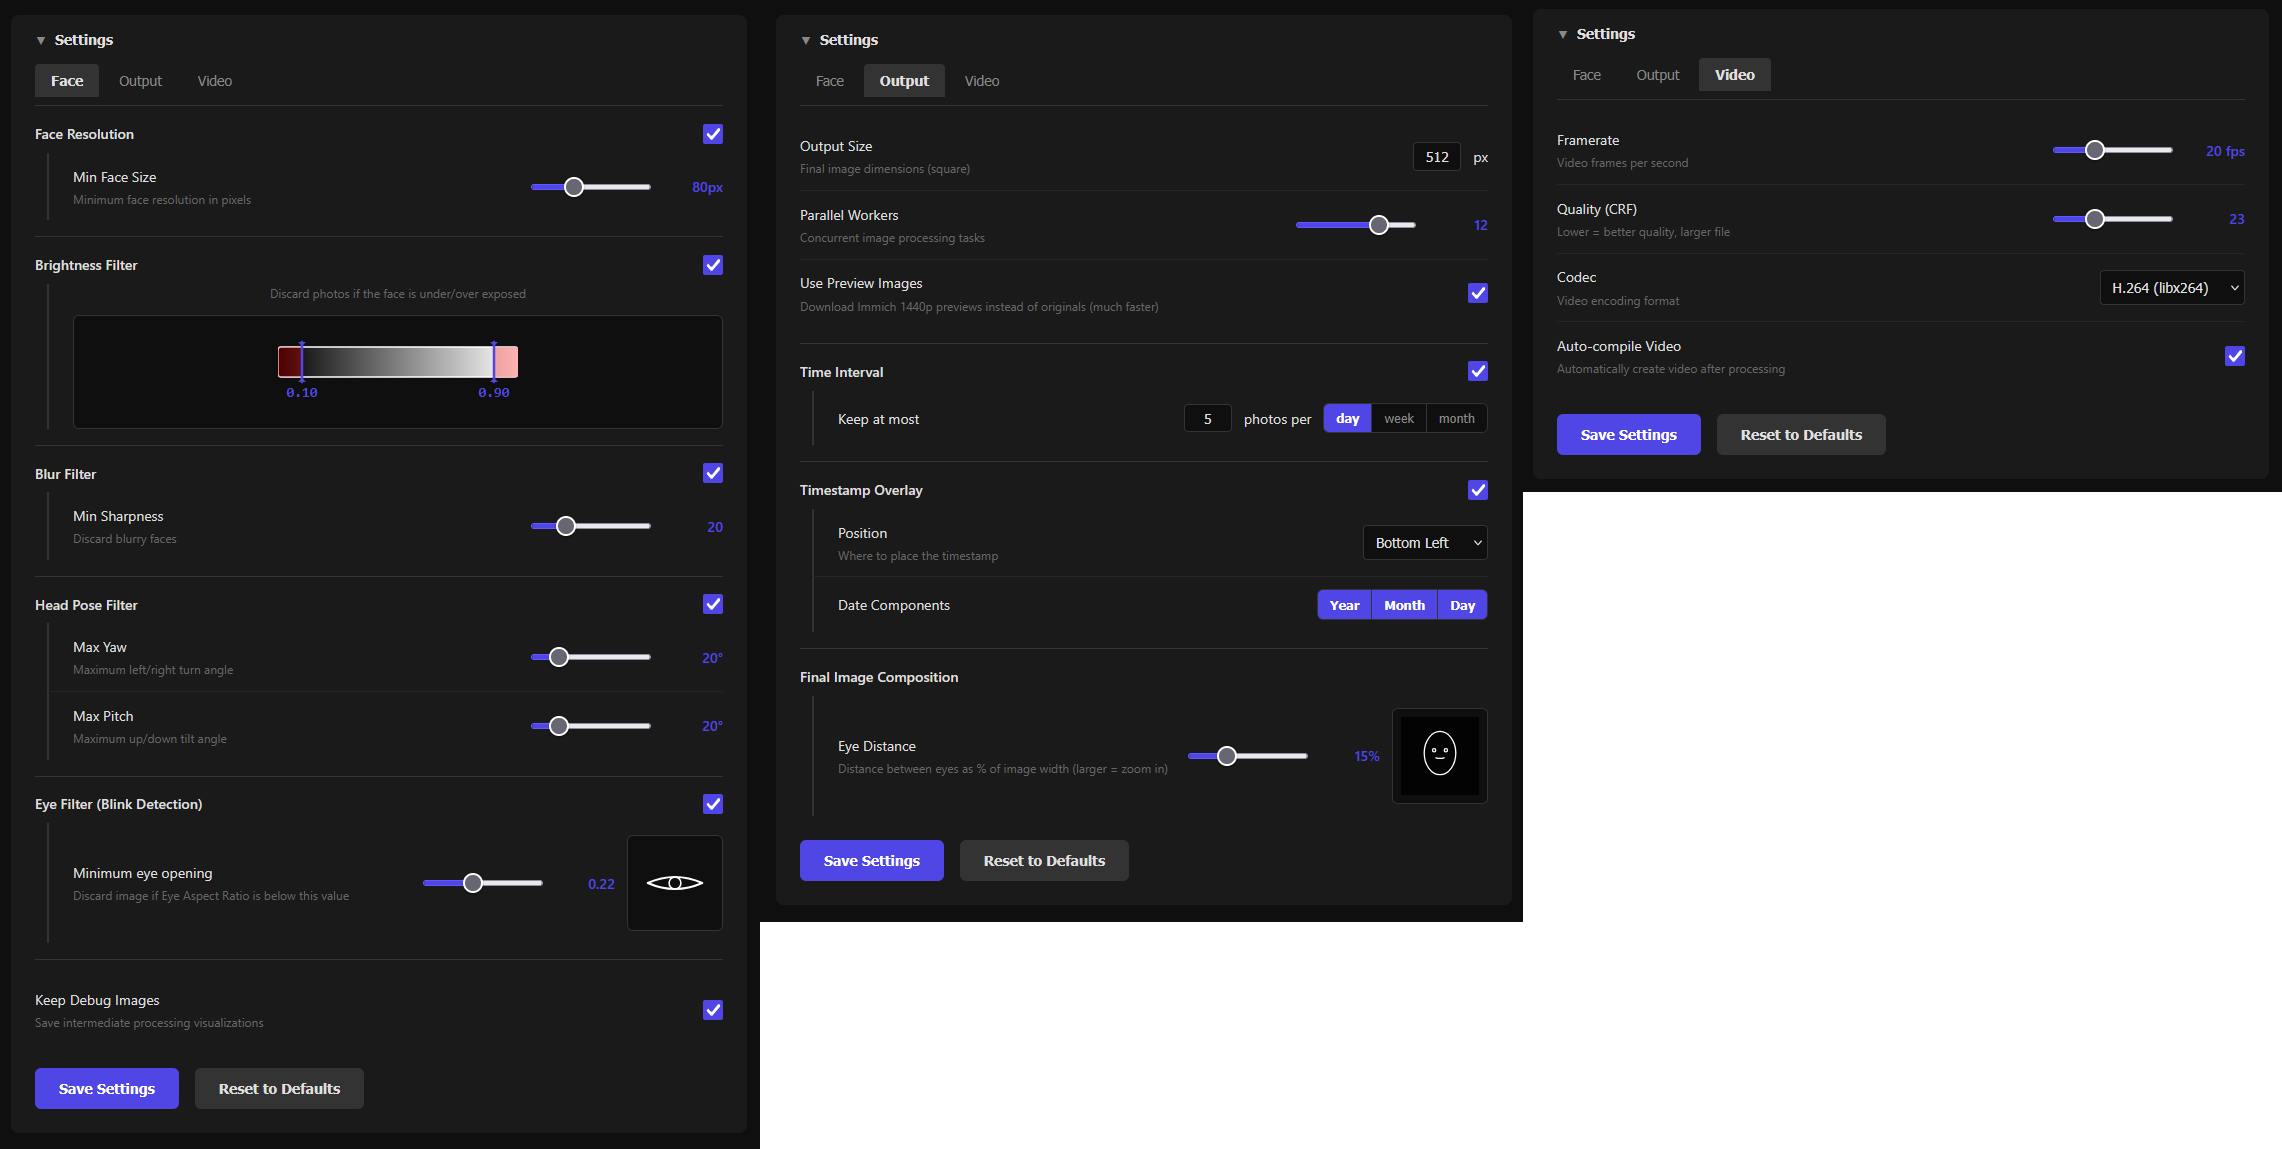
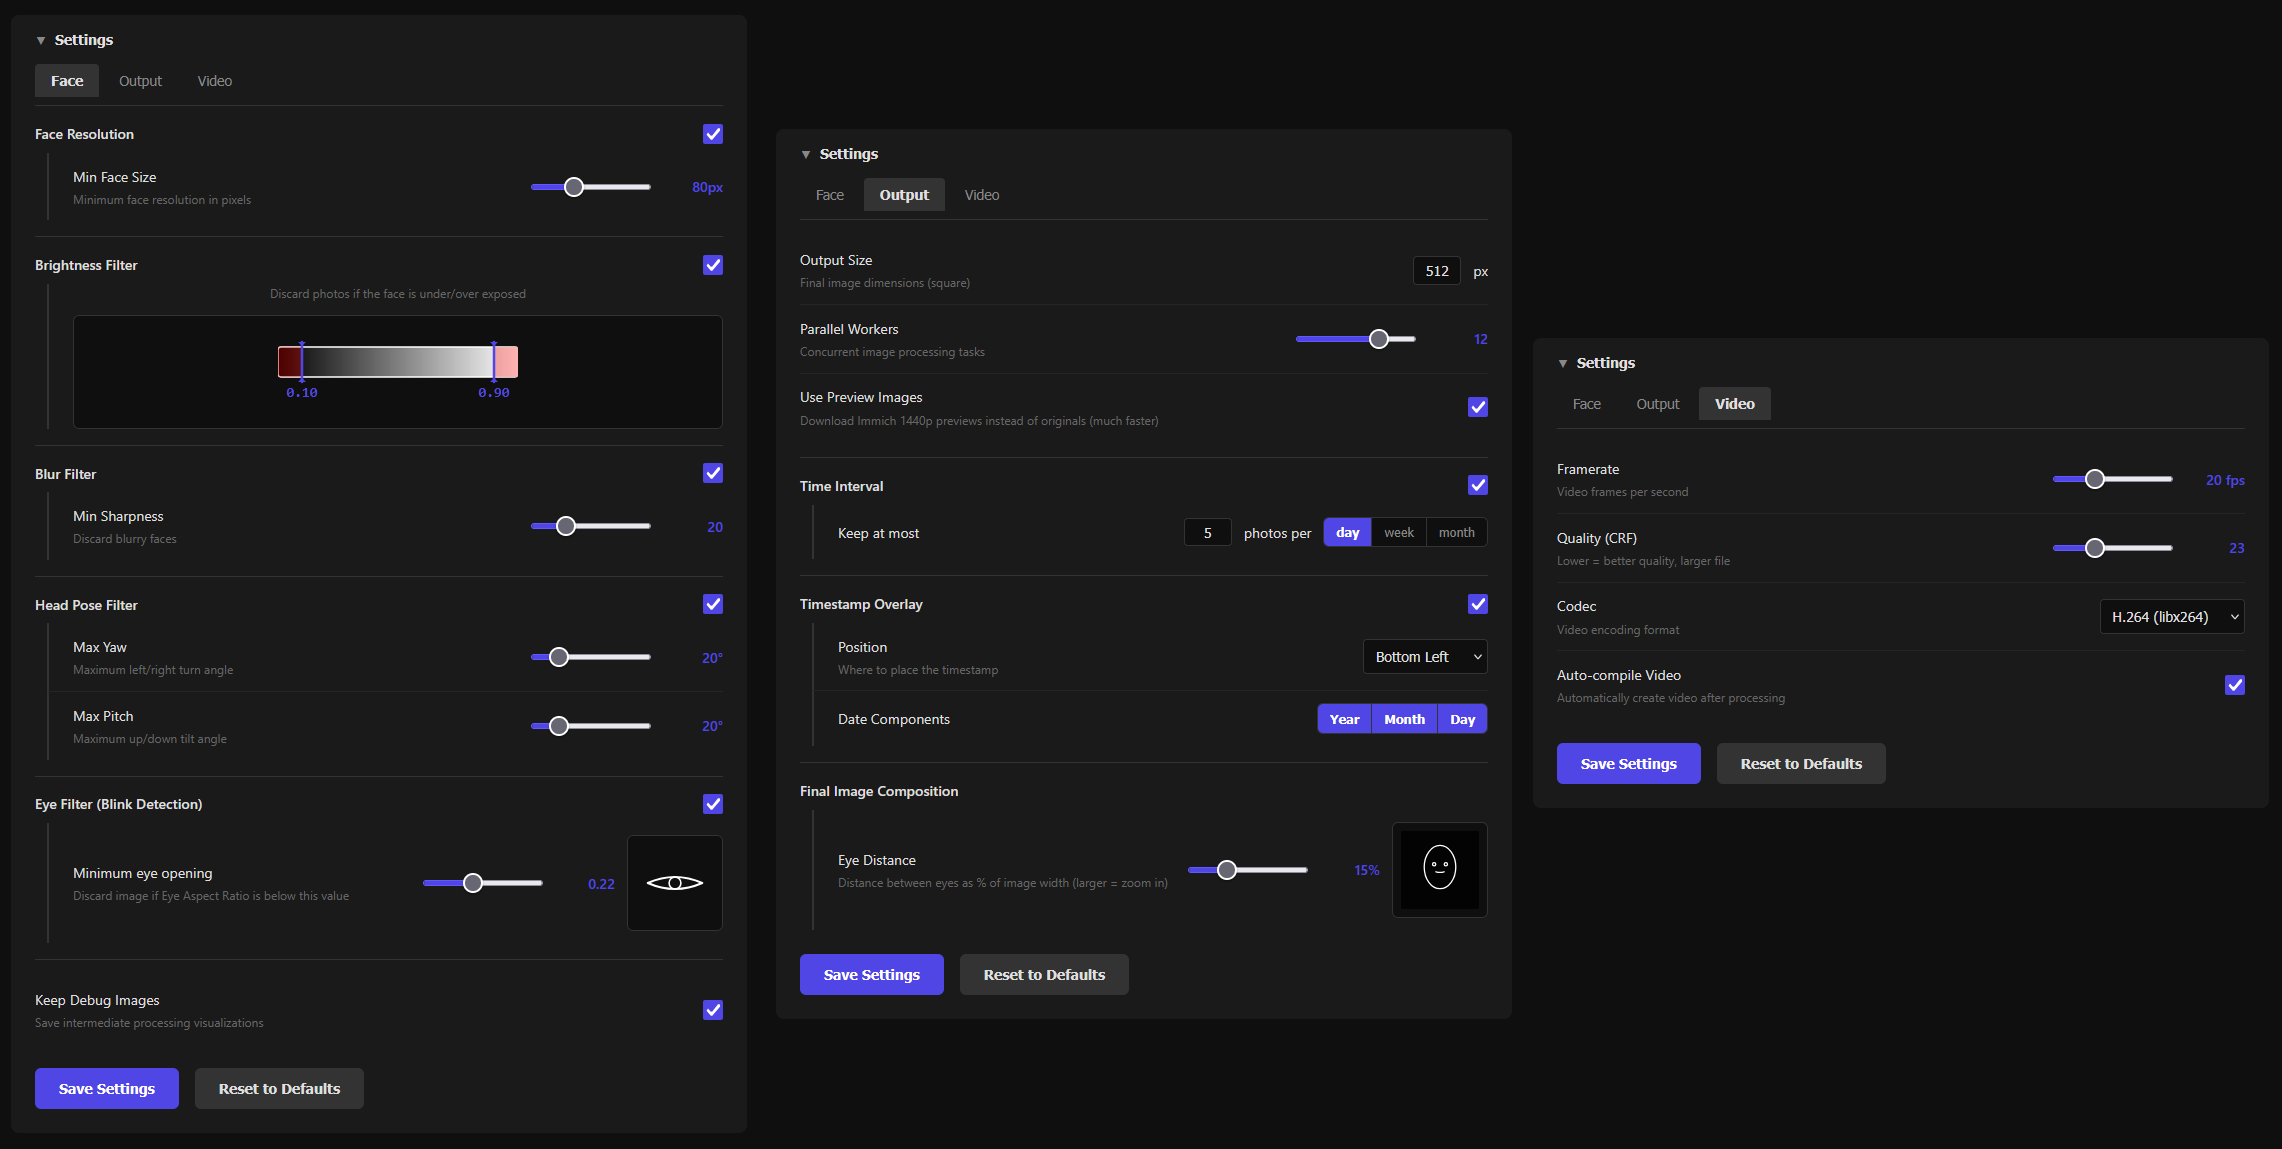
readme improvements

diff --git a/README.md b/README.md
@@ -80,6 +80,8 @@ Then open **http://your_server:5000** to access the web interface.
 
 ### Volumes
 
+*Ensure correct read/write permissions to these folders.*
+
 | Path | Description |
 |---|---|
 | `/app/config` | Persisted configuration file (`config.toml`) |
@@ -96,6 +98,7 @@ Please adjust image brightness filtering, eye aspect ratio etc. for the person y
 
 ## Additional info
 
+- The photo filtering is not 100% accurate and will continue to improve.
 - Heartfelt thanks to the Immich team and contributors for making this project possible.
 - About contribution : When I first created this project, I marked it as open to contributions. I now realize that I don't have as much time as I thought to dedicate to this project. I feel comfortable with issues being opened as it allows me to go through them at my own pace. For pull requests, I cannot guarantee a reasonable time frame for review. 
 - Thank you thomaslrg for the discussions around the project.
